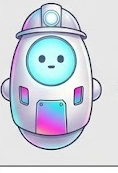
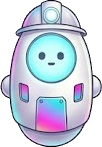
AURI en PNG transparente y más grande
Fondo removido por flood-fill desde bordes (los blancos internos del
robot se preservan por el contorno) + limpieza de componentes sueltas.
84px en la viñeta del semáforo, 72px en el panel de IA, con glow cian.

diff --git a/frontend/src/components/dashboard/AuriRecommends.jsx b/frontend/src/components/dashboard/AuriRecommends.jsx
@@ -22,7 +22,7 @@ export default function AuriRecommends() {
         transition={{ duration: 3, repeat: Infinity, ease: 'easeInOut' }}
         src={auraBody}
         alt="AURI"
-        sx={{ width: 54, flexShrink: 0, filter: 'drop-shadow(0 4px 10px rgba(53,198,244,0.25))' }}
+        sx={{ width: 84, flexShrink: 0, filter: 'drop-shadow(0 6px 14px rgba(53,198,244,0.35))' }}
       />
 
       {/* viñeta de diálogo */}

diff --git a/frontend/src/components/panels/AiPanelContent.jsx b/frontend/src/components/panels/AiPanelContent.jsx
@@ -33,7 +33,7 @@ export default function AiPanelContent() {
             component="img"
             src={auraBody}
             alt="AURI"
-            sx={{ width: 52, flexShrink: 0, borderRadius: 1.5, border: `1px solid ${COLORS.border.default}`, backgroundColor: COLORS.bg.surface }}
+            sx={{ width: 72, flexShrink: 0, filter: 'drop-shadow(0 4px 10px rgba(53,198,244,0.3))' }}
           />
           <Typography sx={{ fontSize: '0.76rem', color: recommendation ? COLORS.text.primary : COLORS.text.muted, lineHeight: 1.45 }}>
             {recommendation || 'Aún no hay recomendación — se genera al cambiar el estado de la bomba.'}